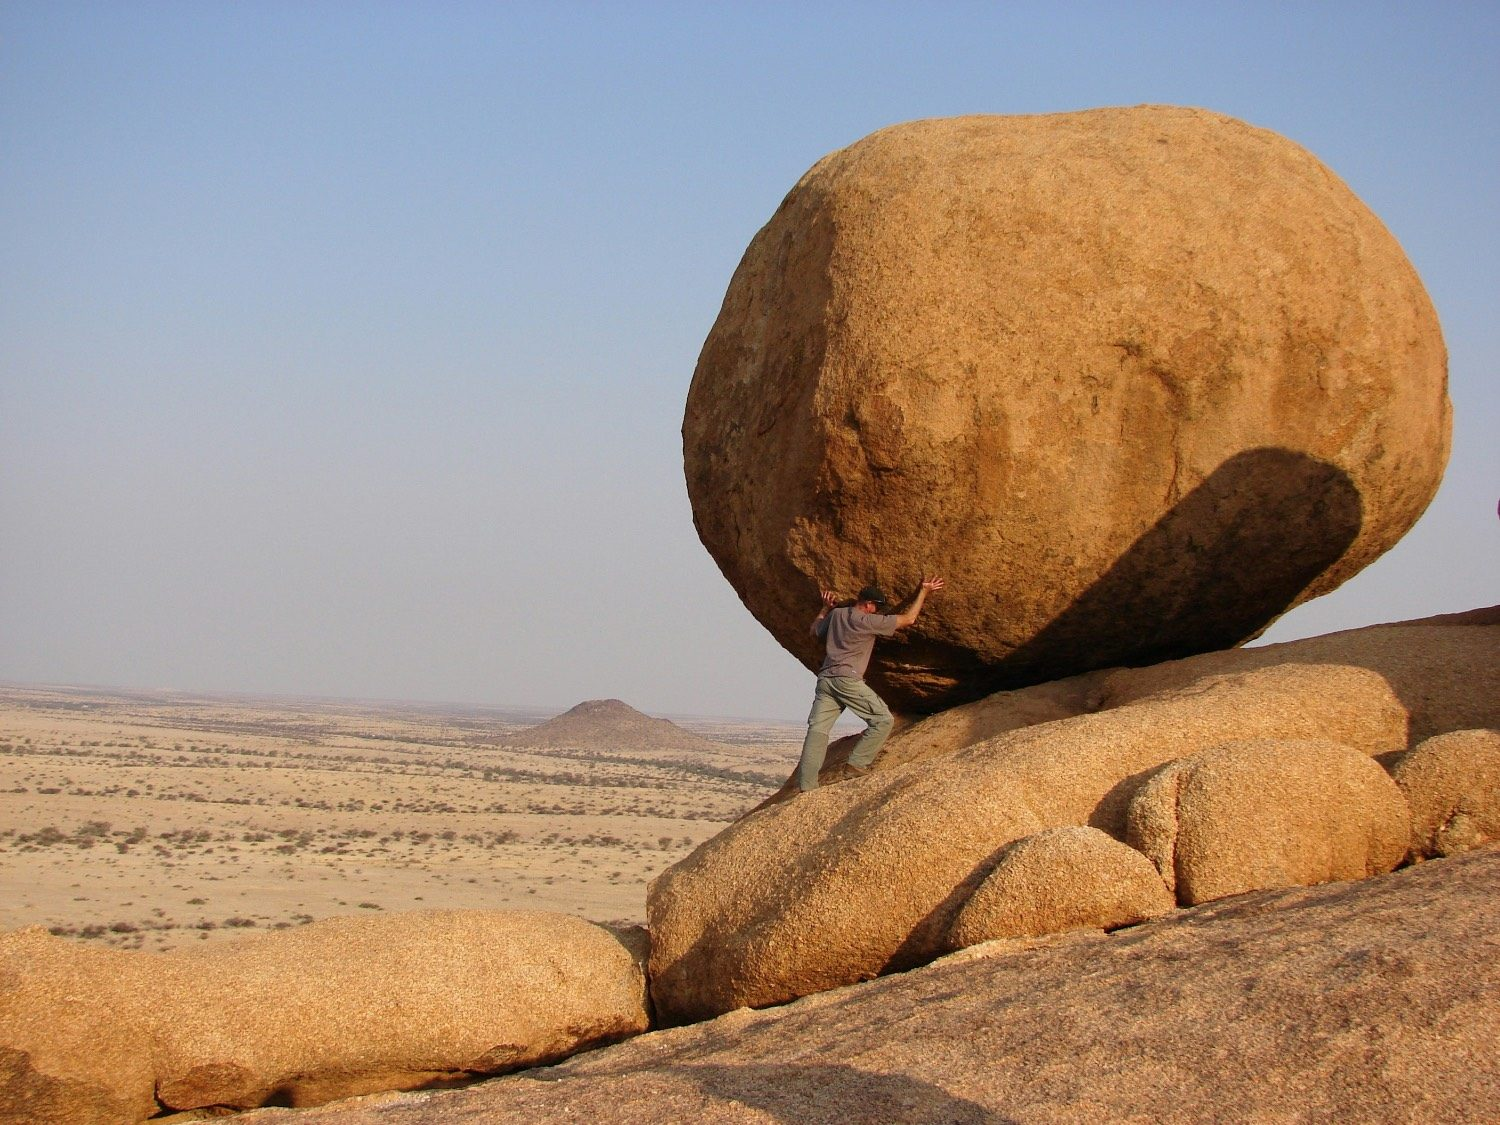
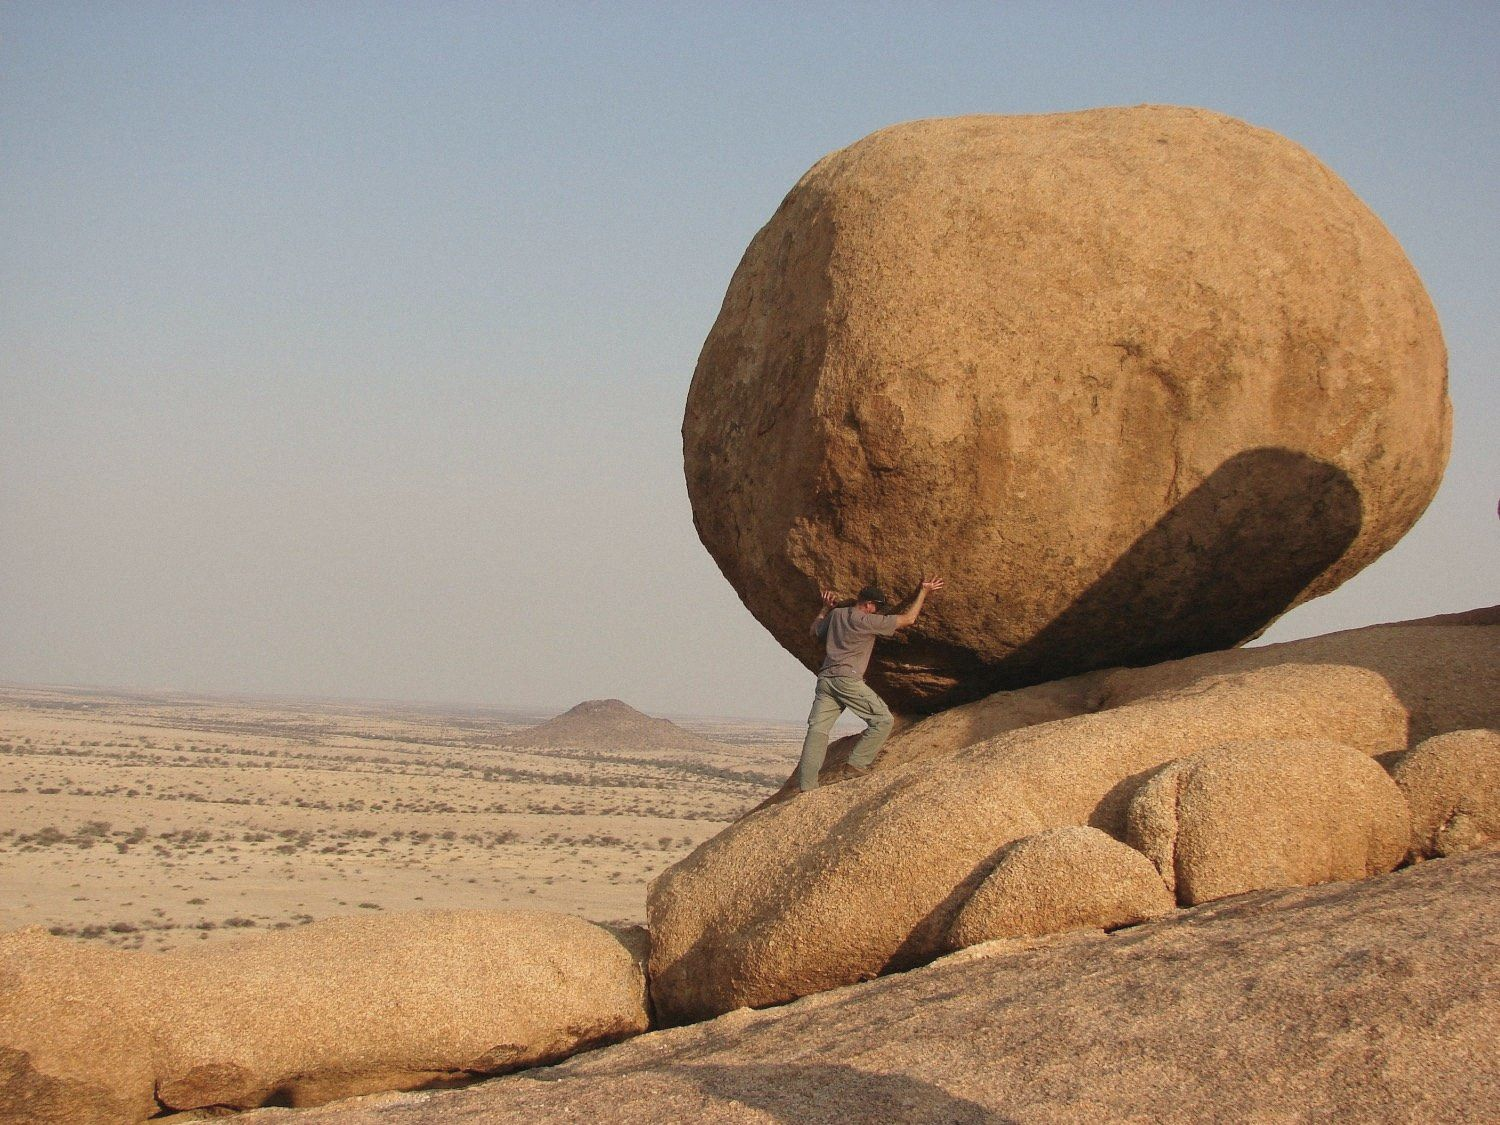
Caryatids for Hiring; one film grade baked into every photo so they read as one set

diff --git a/styles.css b/styles.css
@@ -202,13 +202,12 @@ a.card:hover .card-hint, a.card:focus-visible .card-hint { opacity: 1; transform
 .opener-inner .actions { margin-top: 28px; }
 .opener-photo { margin: 40px auto 0; width: calc(100% - 2 * var(--pad)); max-width: calc(var(--container) - 2 * var(--pad)); overflow: hidden; aspect-ratio: 4 / 5; border-radius: var(--radius-lg); background: var(--slate-200); }
 .opener-photo img { width: 100%; height: 100%; object-fit: cover; }
-/* One shared grade so every photo reads as one set: a little warmer and softer, like film. */
-.opener-photo img, .card-photo img { filter: sepia(.14) saturate(.86) contrast(1.04) brightness(.98); }
+/* Photos carry one shared film grade baked into the files (warm, lifted blacks, fine grain), so they read as one set. */
 .opener-placeholder { display: flex; align-items: center; justify-content: center; padding: 32px; text-align: center; color: var(--slate-500); font-size: var(--t-small); }
 .opener-placeholder p { margin: 0; max-width: 18em; }
 .pos-labyrinth { object-position: 50% 45%; }
 .pos-sisyphus { object-position: 62% 50%; }
-.pos-pillars { object-position: 40% 50%; }
+.pos-pillars { object-position: 45% 60%; }
 .pos-ships { object-position: 50% 60%; }
 @media (min-width: 760px) { .pos-ships { object-position: 50% 84%; } }
 .pos-crossroads { object-position: 50% 50%; }

diff --git a/index.html b/index.html
@@ -177,7 +177,7 @@
       <div class="wrap">
         <div class="paths">
         <a class="card" href="hiring.html">
-          <figure class="card-photo"><img class="pos-pillars" src="assets/img/pillars-800.jpg" alt="" width="800" height="600" loading="lazy" decoding="async"><figcaption class="card-hint" aria-hidden="true">Relationships that stand the test of time.</figcaption></figure>
+          <figure class="card-photo"><img class="pos-pillars" src="assets/img/pillars-800.jpg" alt="" width="800" height="533" loading="lazy" decoding="async"><figcaption class="card-hint" aria-hidden="true">Relationships that stand the test of time.</figcaption></figure>
           <h3>Hiring</h3>
           <p>We work with you as a partner, shaping the hire around your business.</p>
         </a>

diff --git a/hiring.html b/hiring.html
@@ -127,7 +127,7 @@
         </div>
       </div>
       <figure class="opener-photo">
-        <img class="pos-pillars" src="assets/img/pillars-full.jpg" srcset="assets/img/pillars-800.jpg 800w, assets/img/pillars-full.jpg 1500w" sizes="(min-width: 1240px) 1130px, 100vw" alt="Ancient marble columns standing against a bright blue sky" width="1500" height="1125" decoding="async">
+        <img class="pos-pillars" src="assets/img/pillars-full.jpg" srcset="assets/img/pillars-800.jpg 800w, assets/img/pillars-full.jpg 1500w" sizes="(min-width: 1240px) 1130px, 100vw" alt="The caryatids of the Erechtheion in Athens, carved women holding up the temple roof together" width="1500" height="1000" decoding="async">
       </figure>
     </section>
 

diff --git a/CLAUDE.md b/CLAUDE.md
@@ -25,7 +25,7 @@ Website for Delos Recruitment Ltd, a specialist recruitment-to-recruitment (rec2
 - Headline font is Gloock (free, SIL Open Font Licence). Never use Erstoria.
 - Never use em dashes or en dashes in copy. UK English. No emoji, no exclamation marks.
 - Team voice: Delos speaks as "we" so it reads as more than one person. No "I", no personal "about Maria" section, no photos of people from Maria's life.
-- Campaign images (agreed with Maria, Oct 2026): Greek myth themed photos with a short headline set into the image, no logo on the images (the DELOS wordmark was removed; its corner now holds the button), no pink highlights, no nudity, no generative AI images. Free Unsplash licence photos, saved full frame in `assets/img` as `<name>-full.jpg` (up to 2000px) and `<name>-800.jpg`, framed per image with `object-position`. Current set: labyrinth (Home), pillars (Hiring hero and Home Hiring card), Sisyphus (Careers hero) and small plane (Careers, below "Thinking about a move into recruitment?", the falling-into-recruitment section), crossroads (About: a busy pedestrian crossing seen from directly above, people tracing the X, Unsplash TRJjPc0wss0), ships (Contact), dead-end sign (404: blue dead-end road sign against the sky, Unsplash e-najV9MDXg). All photos share one CSS grade (warm, slightly softened, like film) set on `.opener-photo img, .card-photo img` in styles.css. Headlines are signed off by Maria; don't change them without asking. Page headlines (Oct 2026): Home "Lost in the labyrinth? We'll guide you through.", Hiring "Relationships that stand the test of time.", Careers "Pushing the same boulder every quarter?" and "Did you fall into recruitment? We'll help you fly.", About "Standing at a crossroads? We know the way.", Contact "No ships passing in the night." On scroll the question or statement lands first and the answer follows. Each campaign photo IS its section (`.story`): the photo runs edge to edge in full colour, its line is the section headline set in white along the bottom of the photo (one soft dark shade at the foot of every photo), on the same column as the words directly beneath, so photo, headline and text read as one piece. No buttons or text boxes on photos. Every page opens the same way: a photo hero at the same height with the page headline (h1) on it. Home labyrinth ("Everything you have heard about recruitment is a myth."), Hiring pillars ("Relationships that stand the test of time."), Careers small plane ("Did you fall into recruitment? We'll help you fly.") plus Sisyphus as the experienced-recruiter section, About Mykonos alley ("About Delos Recruitment"), Contact ships ("No ships passing in the night."), 404 Mykonos. The variety of subjects is deliberate; the shared frame, position, type and shade make them one series. Motion: the photo opens like a raised blind, settles, then drifts gently with scroll; the headline lands and the words follow. Reduced motion shows everything still.
+- Campaign images (agreed with Maria, Oct 2026): Greek myth themed photos with a short headline set into the image, no logo on the images (the DELOS wordmark was removed; its corner now holds the button), no pink highlights, no nudity, no generative AI images. Free Unsplash licence photos, saved full frame in `assets/img` as `<name>-full.jpg` (up to 2000px) and `<name>-800.jpg`, framed per image with `object-position`. Current set: labyrinth (Home), pillars (Hiring hero and Home Hiring card), Sisyphus (Careers hero) and small plane (Careers, below "Thinking about a move into recruitment?", the falling-into-recruitment section), crossroads (About: a busy pedestrian crossing seen from directly above, people tracing the X, Unsplash TRJjPc0wss0), ships (Contact), dead-end sign (404: blue dead-end road sign against the sky, Unsplash e-najV9MDXg). All photos share one film grade baked into the files (no CSS filter): saturation x0.86, blacks lifted (0.06 + 0.90 x value), warmed (red x1.03, blue x0.94), fine mono grain; outliers get small extra tweaks (darker photos brightened, cool skies desaturated a little more). Apply the same to any new photo. Headlines are signed off by Maria; don't change them without asking. Page headlines (Oct 2026): Home "Lost in the labyrinth? We'll guide you through.", Hiring "Relationships that stand the test of time.", Careers "Pushing the same boulder every quarter?" and "Did you fall into recruitment? We'll help you fly.", About "Standing at a crossroads? We know the way.", Contact "No ships passing in the night." On scroll the question or statement lands first and the answer follows. Each campaign photo IS its section (`.story`): the photo runs edge to edge in full colour, its line is the section headline set in white along the bottom of the photo (one soft dark shade at the foot of every photo), on the same column as the words directly beneath, so photo, headline and text read as one piece. No buttons or text boxes on photos. Every page opens the same way: a photo hero at the same height with the page headline (h1) on it. Home labyrinth ("Everything you have heard about recruitment is a myth."), Hiring pillars ("Relationships that stand the test of time."), Careers small plane ("Did you fall into recruitment? We'll help you fly.") plus Sisyphus as the experienced-recruiter section, About Mykonos alley ("About Delos Recruitment"), Contact ships ("No ships passing in the night."), 404 Mykonos. The variety of subjects is deliberate; the shared frame, position, type and shade make them one series. Motion: the photo opens like a raised blind, settles, then drifts gently with scroll; the headline lands and the words follow. Reduced motion shows everything still.
 - Speak directly to the reader ("you", "your business"). Hiring speaks to clients, Careers to candidates. About describes the business.
 - Stress thoroughness, never speed ("quick", "fast", "efficient").
 - Reviews: keep to two or three, quoted word for word, credited by role (for example "Candidate, Google review"), never by name.
